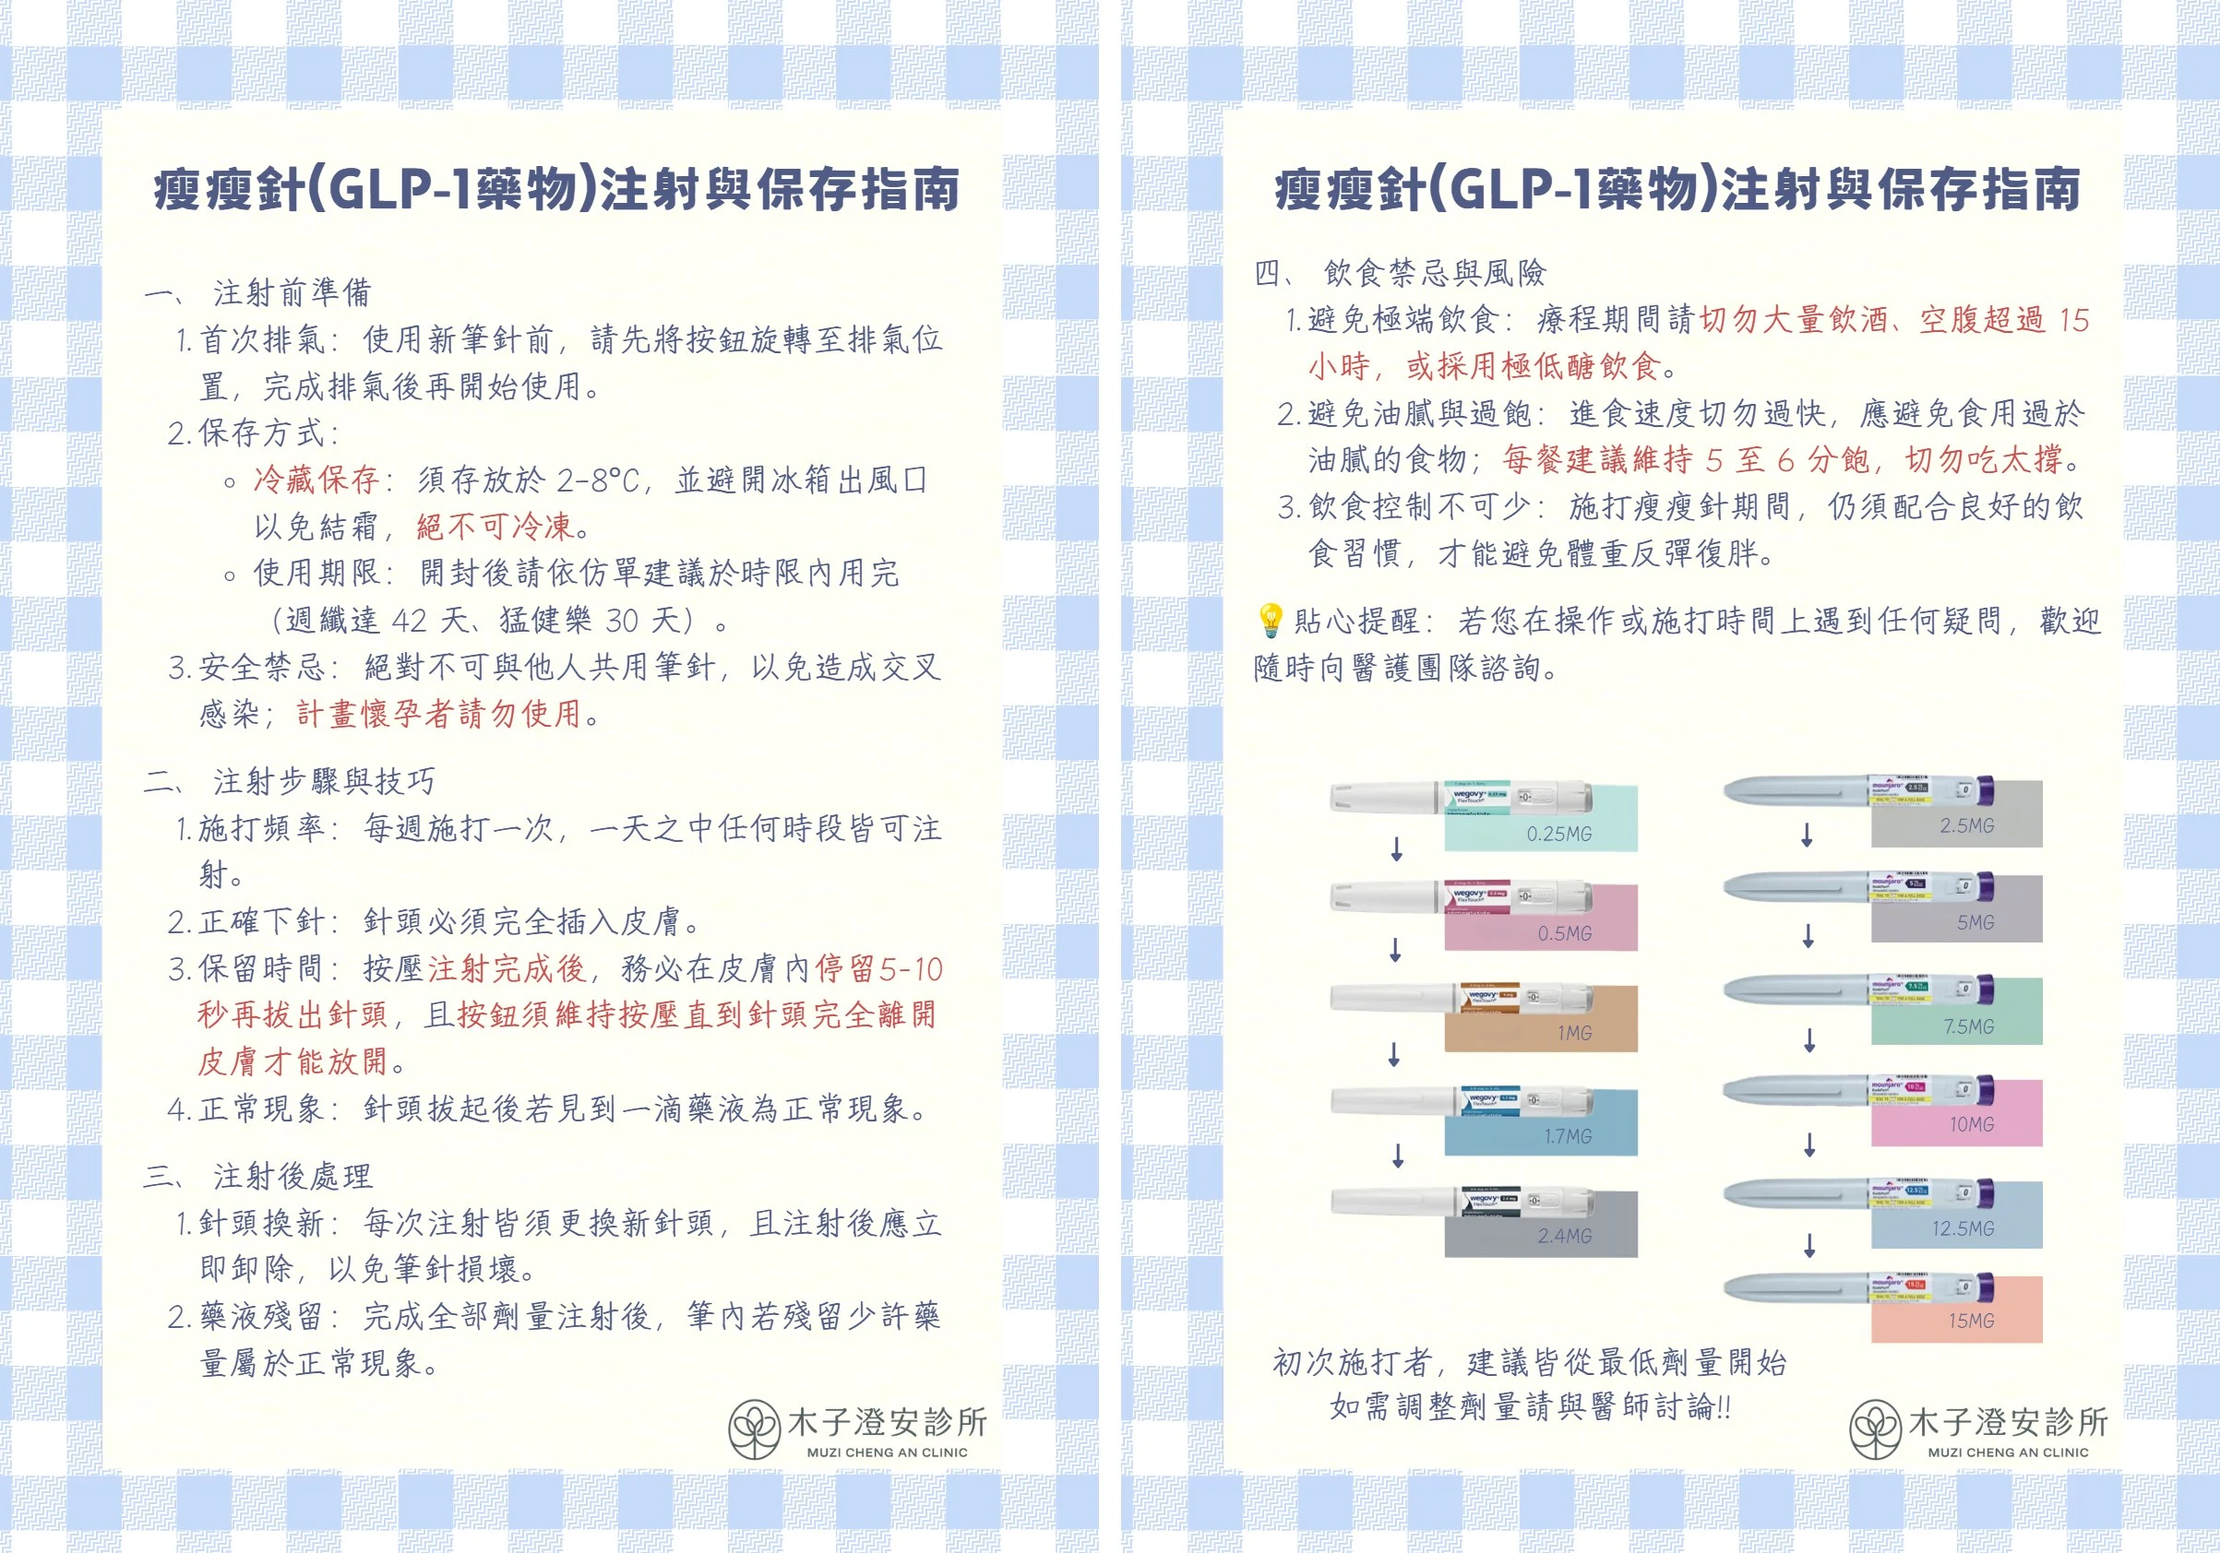
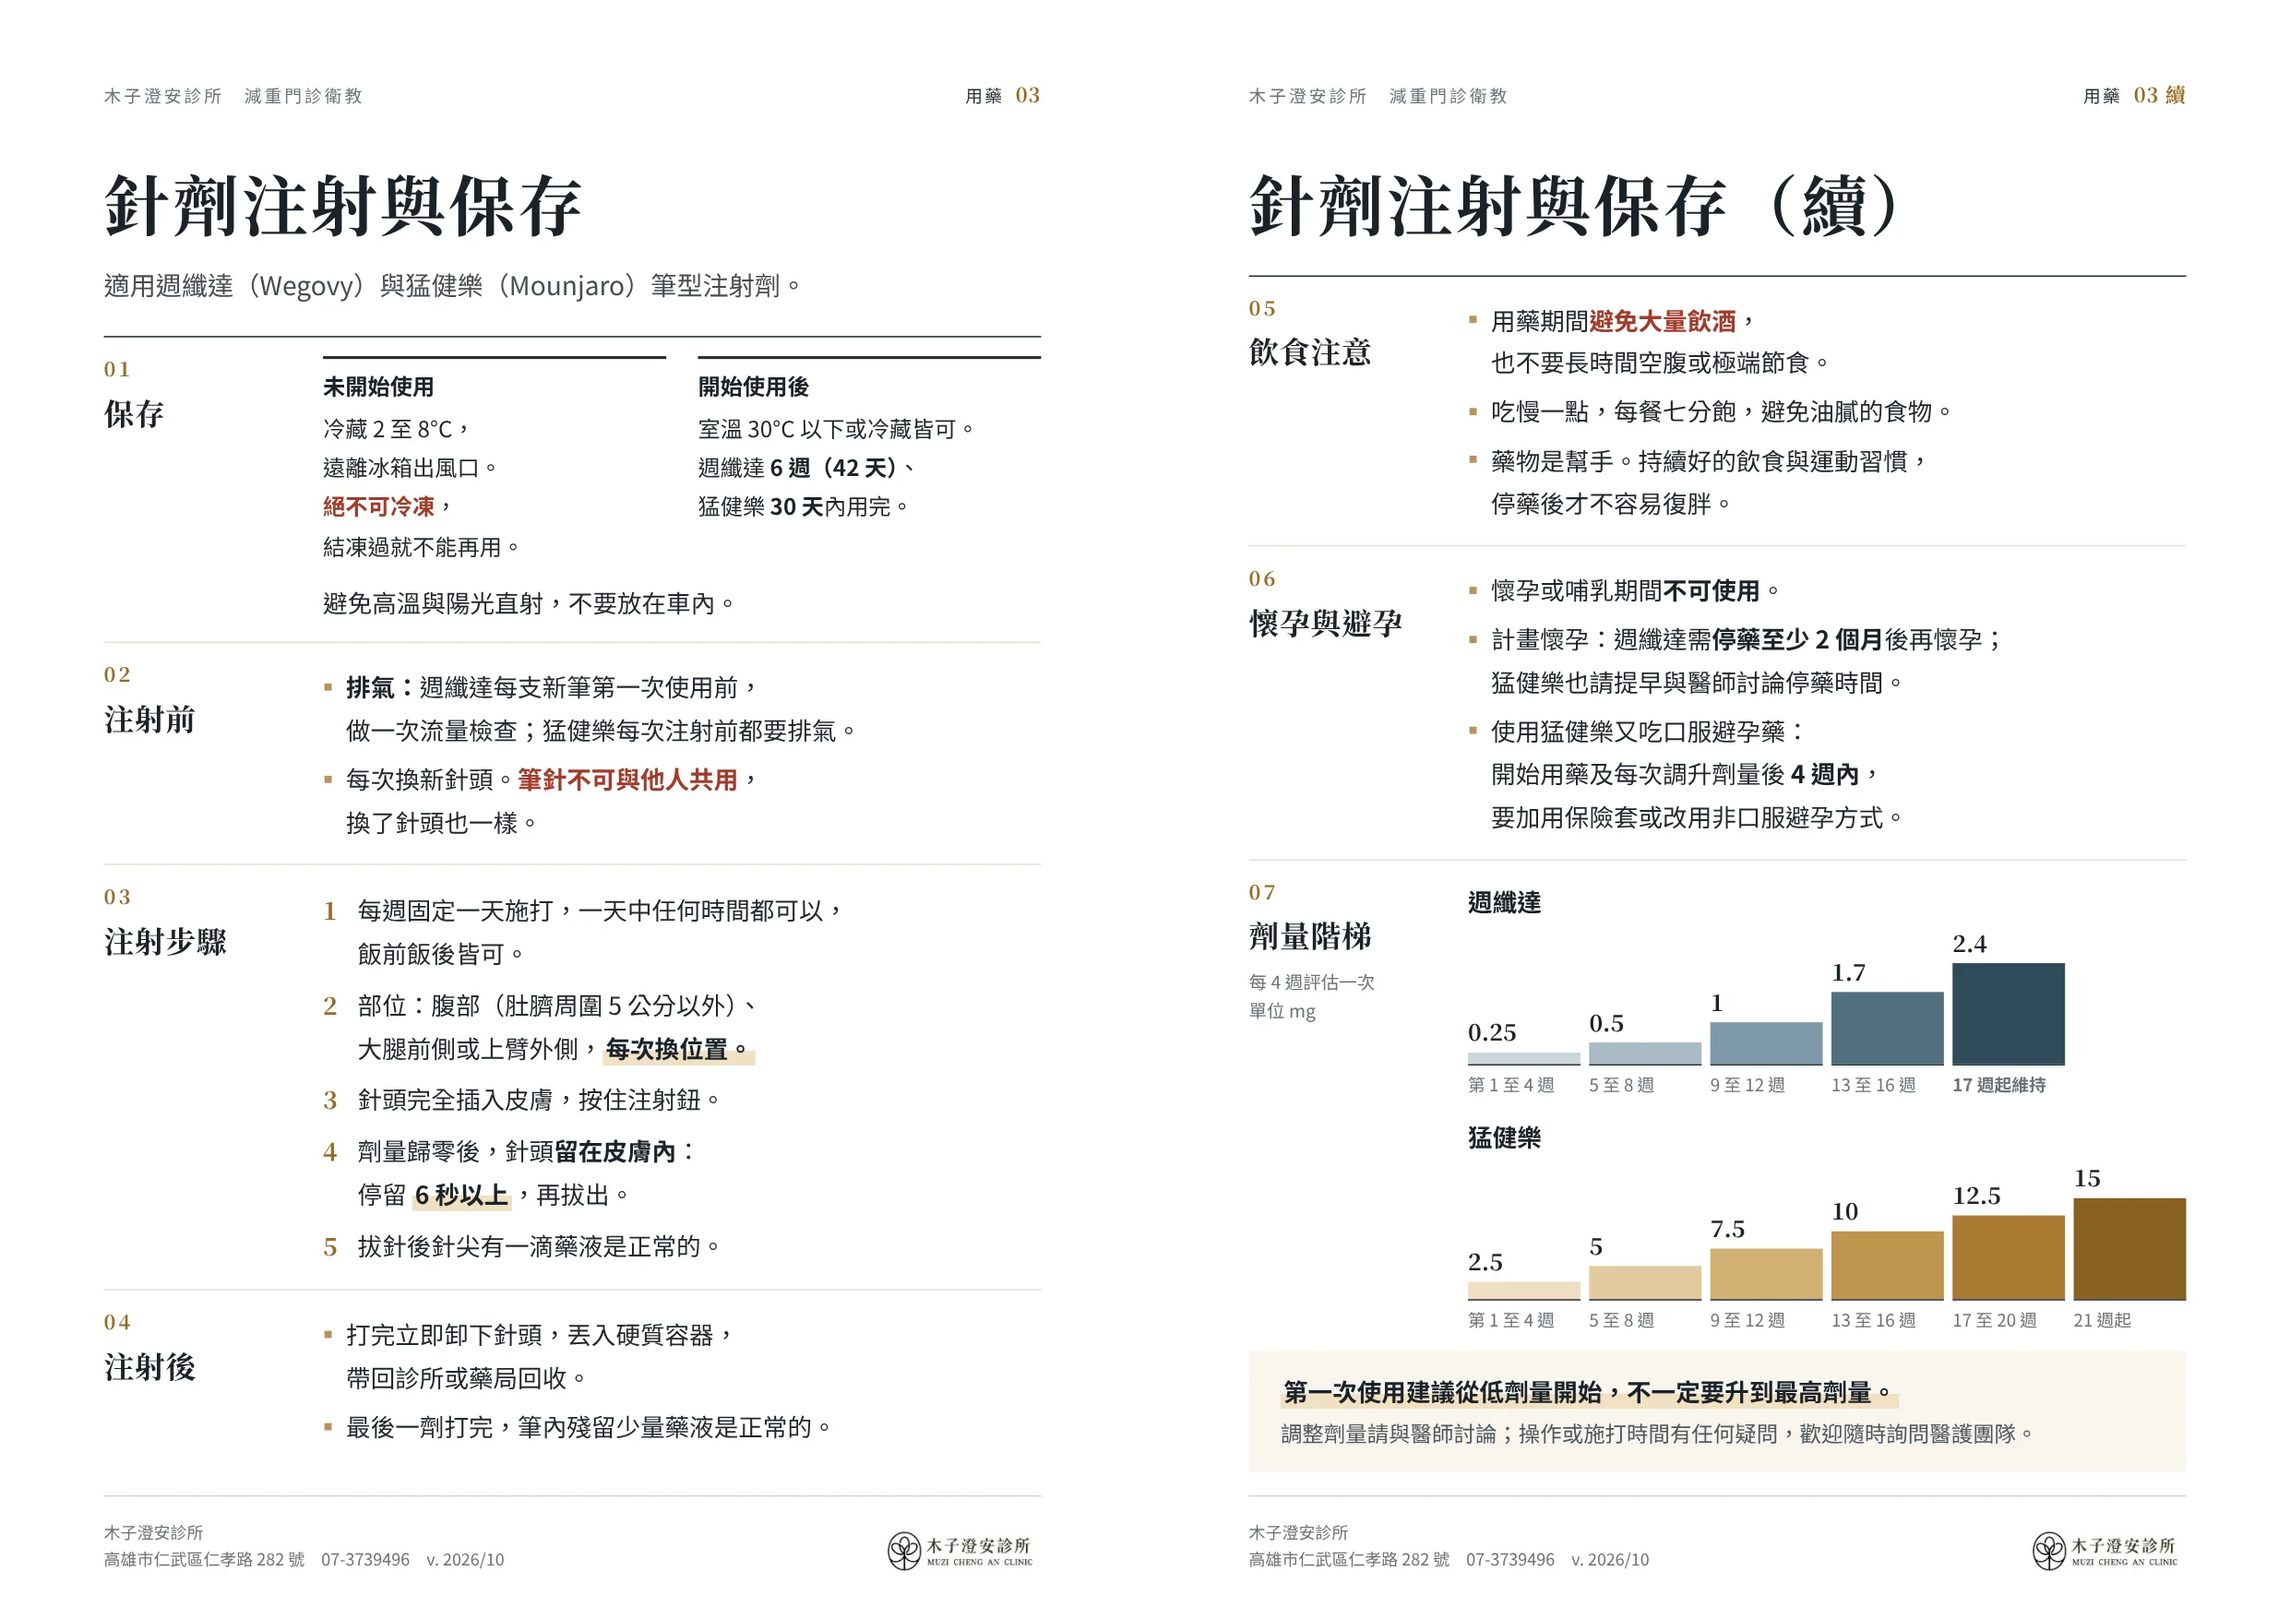
減重衛教：13 張衛教單換成新版設計，選單改名「針劑注射與保存」
- 11 張衛教圖卡與地中海飲食 2 頁換成 YT 提供的新版（JPG 轉 WebP，檔名不變）。
- 內容依查核結果修正：代謝症候群判定、兩種針劑的漏打與改日規則、禁忌與注意事項分開、台灣肥胖率 50.3% 等。
- 「瘦瘦針注射與保存」選單名稱改為「針劑注射與保存」，工作台衛教排序同步更新。
- 離線快取版本改為 tools-v2，診所電腦會直接抓新圖。

diff --git a/weight/app.js b/weight/app.js
@@ -2108,7 +2108,7 @@ const EDU_PDF_PAGES = [
   {label:'藥物選擇', icon:'<svg viewBox="0 0 24 24" fill="none" stroke="currentColor" stroke-width="1.7" stroke-linecap="round" stroke-linejoin="round" style="width:1em;height:1em;vertical-align:-0.14em;display:inline-block" aria-hidden="true"><rect x="2.5" y="8.5" width="19" height="7" rx="3.5" transform="rotate(-45 12 12)"/><path d="M8.5 8.5l7 7"/></svg>', src:'img/edu-medication-options.webp'},
   {label:'用藥衛教', icon:'<svg viewBox="0 0 24 24" fill="none" stroke="currentColor" stroke-width="1.7" stroke-linecap="round" stroke-linejoin="round" style="width:1em;height:1em;vertical-align:-0.14em;display:inline-block" aria-hidden="true"><path d="M12 6.5C10.5 5 8.5 4.5 6 4.5H3v14h3c2.5 0 4.5.5 6 2 1.5-1.5 3.5-2 6-2h3v-14h-3c-2.5 0-4.5.5-6 2z"/><path d="M12 6.5v14"/></svg>', src:'img/edu-medication-guide.webp'},
   {label:'內視鏡減重', icon:'<svg viewBox="0 0 24 24" fill="none" stroke="currentColor" stroke-width="1.7" stroke-linecap="round" stroke-linejoin="round" style="width:1em;height:1em;vertical-align:-0.14em;display:inline-block" aria-hidden="true"><path d="M15 3c-3.9 0-6.5 2.6-6.5 6.5 0 2.5-1 3.2-2.4 4.1C4.7 14.5 3.5 15.6 3.5 18A3 3 0 0 0 9 19.7"/><path d="M9.5 9.5H19a2 2 0 0 1 2 2v3a6 6 0 0 1-6 6h-2"/></svg>', src:'img/edu-endoscopic-treatment.webp'},
-  {label:'瘦瘦針注射與保存', printSplit:2, icon:'<svg viewBox="0 0 24 24" fill="none" stroke="currentColor" stroke-width="1.7" stroke-linecap="round" stroke-linejoin="round" style="width:1em;height:1em;vertical-align:-0.14em;display:inline-block" aria-hidden="true"><path d="M17.5 3.5l3 3"/><path d="M19 8l-3-3L5.5 15.5 4 20l4.5-1.5z"/><path d="M13 7l4 4"/></svg>', src:'img/edu-glp1-injection-storage.webp'},
+  {label:'針劑注射與保存', printSplit:2, icon:'<svg viewBox="0 0 24 24" fill="none" stroke="currentColor" stroke-width="1.7" stroke-linecap="round" stroke-linejoin="round" style="width:1em;height:1em;vertical-align:-0.14em;display:inline-block" aria-hidden="true"><path d="M17.5 3.5l3 3"/><path d="M19 8l-3-3L5.5 15.5 4 20l4.5-1.5z"/><path d="M13 7l4 4"/></svg>', src:'img/edu-glp1-injection-storage.webp'},
   {label:'追蹤與監測時程', icon:'<svg viewBox="0 0 24 24" fill="none" stroke="currentColor" stroke-width="1.7" stroke-linecap="round" stroke-linejoin="round" style="width:1em;height:1em;vertical-align:-0.14em;display:inline-block" aria-hidden="true"><rect x="3" y="5" width="18" height="16" rx="2"/><path d="M3 10h18M8 3v4M16 3v4"/></svg>', src:'img/edu-follow-up-schedule.webp'}
 ];
 const CONSENT_PDF_PAGE = 'img/consent-glp1.webp';

diff --git a/index.html b/index.html
@@ -383,8 +383,8 @@ const CLEAR_KEYS = {
 /* 兩個子頁的工作台外觀放在各自的 hub.css（calc/hub.css、weight/hub.css），
    子頁偵測到自己被嵌入時，在第一次繪製前就載入，不會先閃出單獨開啟時的畫面。 */
 
-/* 衛教圖卡順序：工作台裡把「瘦瘦針注射與保存」接在「藥物選擇」後面 */
-const EDU_AFTER = [['瘦瘦針注射與保存', '藥物選擇']];
+/* 衛教圖卡順序：工作台裡把「針劑注射與保存」接在「藥物選擇」後面 */
+const EDU_AFTER = [['針劑注射與保存', '藥物選擇']];
 
 const main = document.getElementById('hub-main');
 const frames = {};
@@ -741,7 +741,7 @@ let EDU = weightEdu([
   ['藥物選擇','img/edu-medication-options.webp'],
   ['用藥衛教','img/edu-medication-guide.webp'],
   ['內視鏡減重','img/edu-endoscopic-treatment.webp'],
-  ['瘦瘦針注射與保存','img/edu-glp1-injection-storage.webp', 2],
+  ['針劑注射與保存','img/edu-glp1-injection-storage.webp', 2],
   ['追蹤與監測時程','img/edu-follow-up-schedule.webp']
 ]).concat(LOCAL_EDU);
 

diff --git a/sw.js b/sw.js
@@ -3,7 +3,7 @@
    圖片：先用快取立即顯示，同時在背景向網路拿新版更新快取（下次開啟就是新圖）。
    外部程式庫與字型（網址含版本號，不會變）：有快取就直接用。
    工作台開啟後會把所有衛教與表單圖片預先存下，斷網時也能顯示與列印。 */
-const CACHE = 'tools-v1';
+const CACHE = 'tools-v2';
 const CORE = [
   './', 'index.html',
   'calc/', 'calc/index.html', 'calc/app.js', 'calc/styles.css', 'calc/hub.css', 'calc/qr.png',
